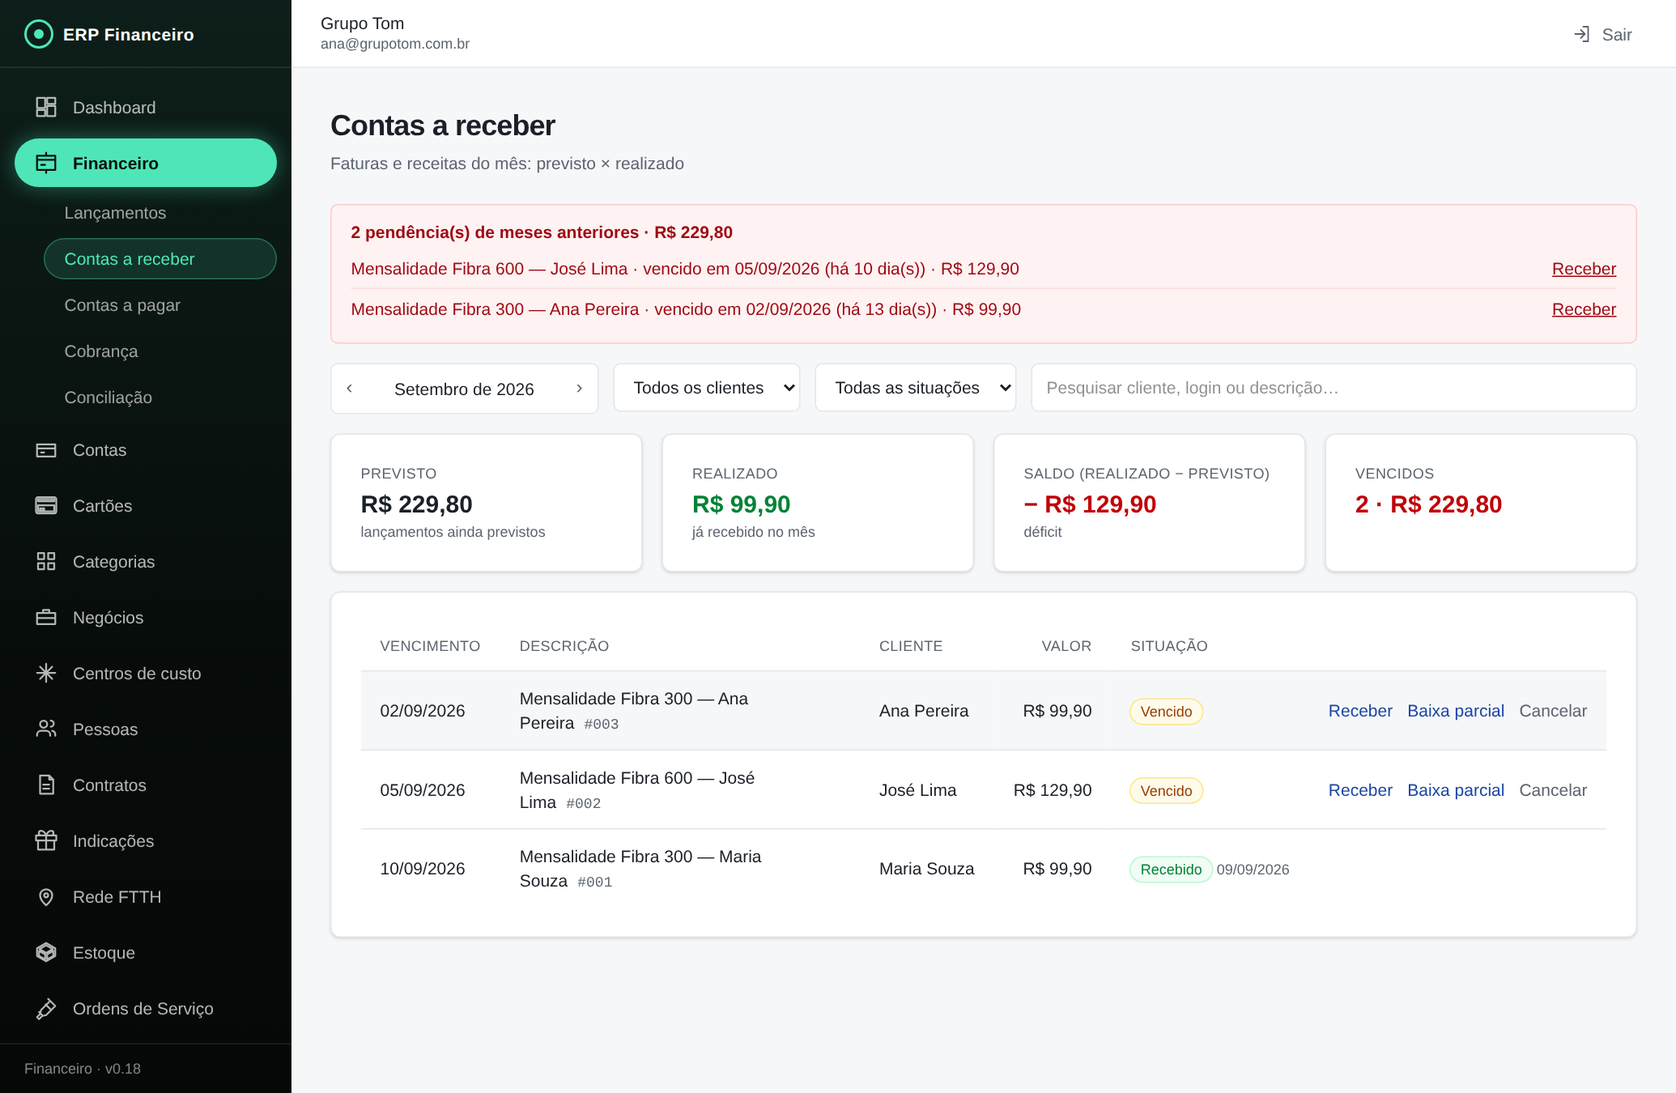
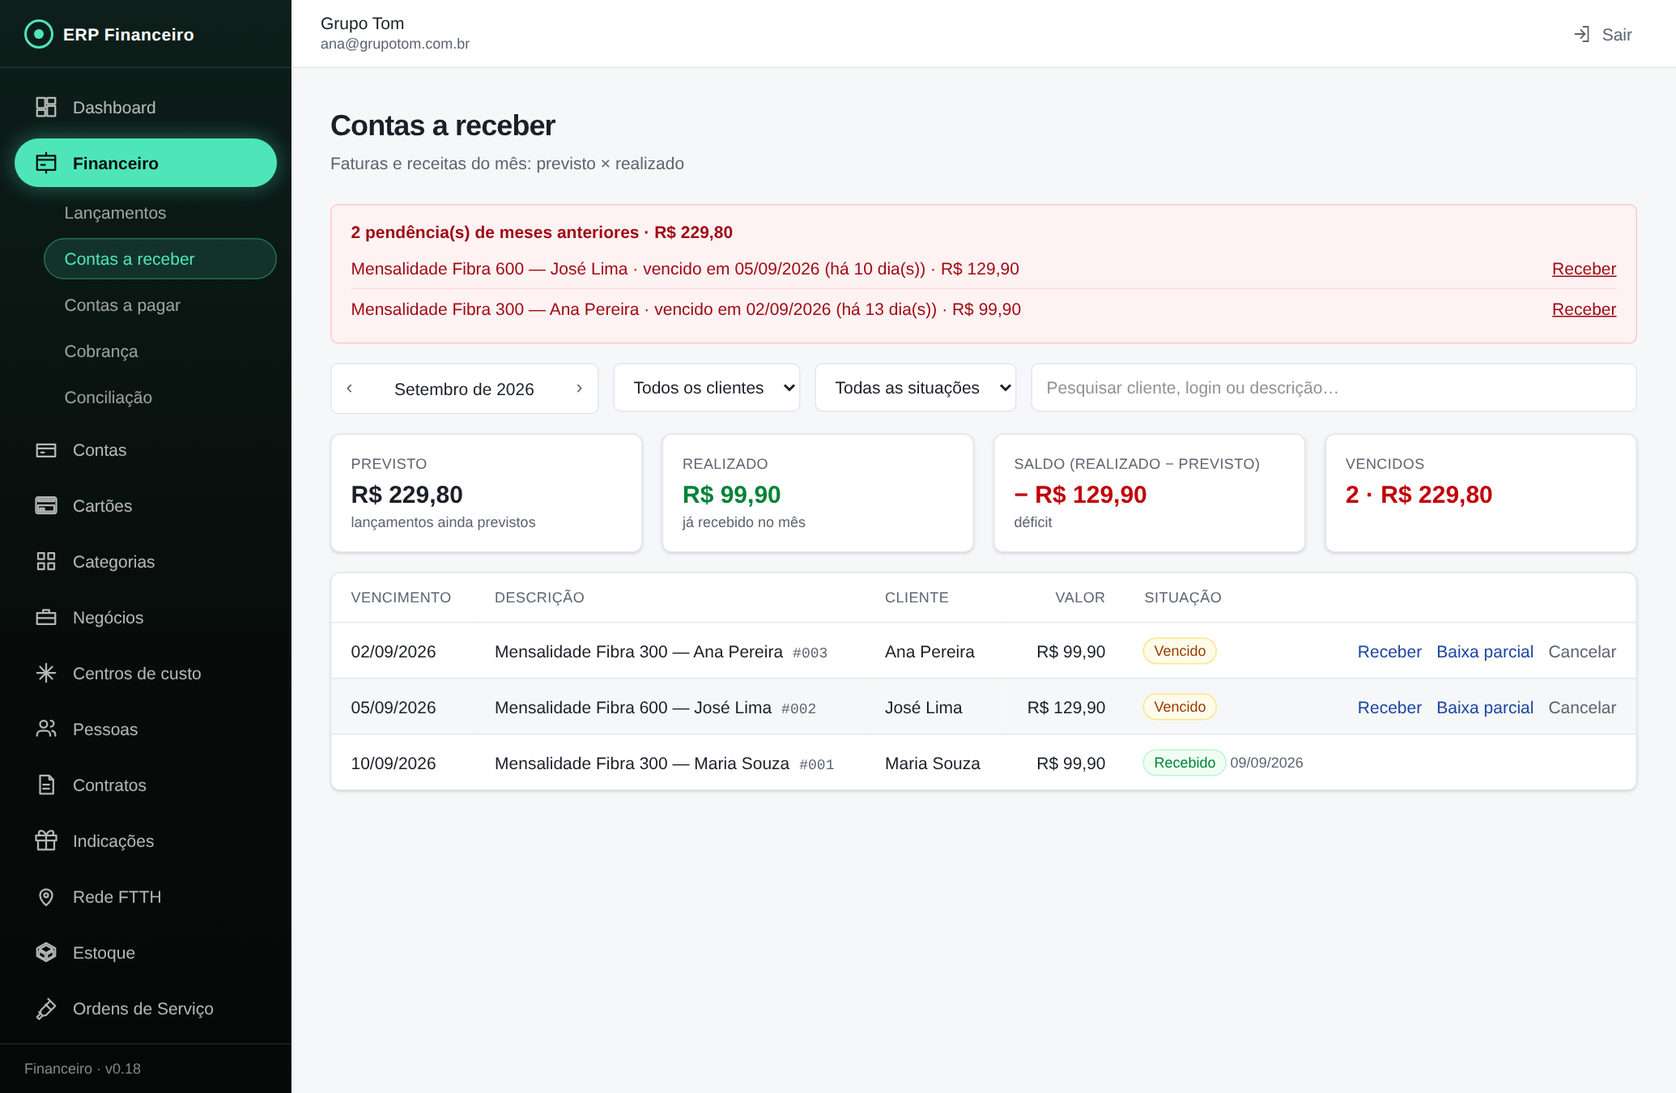
mobile: listas de Lançamentos e Contas a pagar/receber viram cartões no celular
A tabela de 5-6 colunas não cabe em tela de celular: o texto quebrava em
várias linhas, a coluna Tipo ficava cortada e os totais espremiam no topo.
Abaixo de 640px as duas telas passam a renderizar um cartão por linha
(data · tipo, descrição, secundária, valor à direita, situação e ações),
mantendo a tabela completa no desktop. Modelo de linha único nos dois
casos — nada de markup duplicado.

Fatura de cartão no celular: o grupo expande/recolhe igual ao desktop,
com os itens indentados e as ações (Editar, Pagar, Parcial, Cancelar).

Corrige Cartao: o padding passado pelo chamador (p-0, p-4, p-5) nunca
vencia o p-6 da base — o Tailwind resolve pela ordem do CSS gerado, e
todo Cartao do app renderizava com 24px. Em tela de celular isso comia
quase 15% da largura útil das listas. Agora o padding informado vence.

Manual atualizado; prints regerados.

Claude-Session: https://claude.ai/code/session_01LvKVVJXHUTGGnyzXpwt5fU

diff --git a/app/src/modules/lancamentos/pages/LancamentosPage.tsx b/app/src/modules/lancamentos/pages/LancamentosPage.tsx
@@ -164,6 +164,48 @@ export function LancamentosPage() {
     return 'text-brand-700'
   }
 
+  // Modelo único das linhas: a tabela (desktop) e os cartões (mobile) leem daqui — nada duplicado.
+  const linhasView = linhas.map((linha) => {
+    const l = linha.real
+    if (l) {
+      return {
+        chave: linha.chave,
+        data: l.data_competencia,
+        titulo: l.descricao,
+        marca: l.origem === 'faturamento' ? { tom: 'info' as const, texto: 'Automático', titulo: undefined as string | undefined } : null,
+        recorrencia: l.recorrente
+          ? { texto: `🔄 ${rotuloParcela(l)}`, titulo: l.numero_parcelas ? `Parcelamento · ${ROTULO_PERIODICIDADE[l.periodicidade!]}` : `${l.tipo === 'receita' ? 'Receita' : 'Despesa'} fixa · ${ROTULO_PERIODICIDADE[l.periodicidade!]}` }
+          : null,
+        secundaria: descricaoSecundaria(l),
+        tipoRotulo: ROTULO_TIPO[l.tipo],
+        sinal: l.tipo === 'despesa' ? '− ' : l.tipo === 'receita' ? '+ ' : '',
+        valor: l.valor,
+        classeValor: classeValor(l),
+        statusTom: TOM_STATUS[l.status],
+        statusRotulo: ROTULO_STATUS[l.status],
+        aoClicar: () => setEdicao({ modo: 'editar', lancamento: l }),
+        ajuda: undefined as string | undefined,
+      }
+    }
+    const p = linha.proj!
+    return {
+      chave: linha.chave,
+      data: p.data_competencia,
+      titulo: p.descricao,
+      marca: { tom: 'neutro' as const, texto: 'Contrato · projetado', titulo: undefined as string | undefined },
+      recorrencia: null,
+      secundaria: descricaoSecundaria(p),
+      tipoRotulo: ROTULO_TIPO[p.tipo],
+      sinal: p.tipo === 'despesa' ? '− ' : '+ ',
+      valor: p.valor,
+      classeValor: p.tipo === 'receita' ? 'text-green-700' : 'text-red-700',
+      statusTom: 'alerta' as const,
+      statusRotulo: 'Previsto',
+      aoClicar: undefined as (() => void) | undefined,
+      ajuda: 'Projeção do contrato: o lançamento real é gerado automaticamente quando o mês chegar, com descontos e fidelidade aplicados.' as string | undefined,
+    }
+  })
+
   return (
     <>
       <CabecalhoPagina
@@ -218,7 +260,7 @@ export function LancamentosPage() {
           onChange={(e) => setBusca(e.target.value)}
           className="h-10 min-w-48 flex-1 rounded-md border border-line bg-white px-3 text-sm"
         />
-        <span className="ml-auto text-right text-sm text-ink-muted tabular-nums">
+        <span className="w-full text-sm text-ink-muted tabular-nums sm:ml-auto sm:w-auto sm:text-right">
           <span className="block">Realizado: <span className="font-medium text-green-700">{formatarMoeda(totais.receitasReal)}</span> · <span className="font-medium text-red-700">{formatarMoeda(totais.despesasReal)}</span></span>
           <span className="block text-xs">Pendente: <span className="font-medium text-green-700">{formatarMoeda(totais.receitasPend)}</span> · <span className="font-medium text-red-700">{formatarMoeda(totais.despesasPend)}</span></span>
         </span>
@@ -235,55 +277,60 @@ export function LancamentosPage() {
               <p className="text-sm text-ink-muted">Use "Novo lançamento" para registrar uma receita, despesa ou transferência.</p>
             </div>
           ) : (
-            <div className="overflow-x-auto">
-              <table className="w-full text-sm">
-                <thead className="text-left text-xs uppercase tracking-wide text-ink-muted">
-                  <tr className="border-b border-line">
-                    <th className="px-6 py-3 font-medium">Data</th>
-                    <th className="px-6 py-3 font-medium">Descrição</th>
-                    <th className="px-6 py-3 font-medium">Tipo</th>
-                    <th className="px-6 py-3 text-right font-medium">Valor</th>
-                    <th className="px-6 py-3 font-medium">Status</th>
-                  </tr>
-                </thead>
-                <tbody>
-                  {linhas.map((linha) => linha.real ? ((l) => (
-                    <tr key={l.id} onClick={() => setEdicao({ modo: 'editar', lancamento: l })} className="cursor-pointer border-b border-line last:border-0 hover:bg-surface">
-                      <td className="whitespace-nowrap px-6 py-3 tabular-nums text-ink-muted">{formatarData(l.data_competencia)}</td>
-                      <td className="px-6 py-3">
-                        <div className="font-medium">
-                          {l.descricao}
-                          {l.origem === 'faturamento' && <span className="ml-2 align-middle"><Distintivo tom="info">Automático</Distintivo></span>}
-                          {l.recorrente && <span className="ml-2 align-middle" title={l.numero_parcelas ? `Parcelamento · ${ROTULO_PERIODICIDADE[l.periodicidade!]}` : `${l.tipo === 'receita' ? 'Receita' : 'Despesa'} fixa · ${ROTULO_PERIODICIDADE[l.periodicidade!]}`}><Distintivo tom="info">{`🔄 ${rotuloParcela(l)}`}</Distintivo></span>}
-                        </div>
-                        <div className="text-xs text-ink-muted">{descricaoSecundaria(l)}</div>
-                      </td>
-                      <td className="whitespace-nowrap px-6 py-3 text-ink-muted">{ROTULO_TIPO[l.tipo]}</td>
-                      <td className={`whitespace-nowrap px-6 py-3 text-right font-medium tabular-nums ${classeValor(l)}`}>
-                        {l.tipo === 'despesa' ? '− ' : l.tipo === 'receita' ? '+ ' : ''}{formatarMoeda(l.valor)}
-                      </td>
-                      <td className="px-6 py-3"><Distintivo tom={TOM_STATUS[l.status]}>{ROTULO_STATUS[l.status]}</Distintivo></td>
+            <>
+              {/* Mobile: cartão por lançamento (tabela de 5 colunas não cabe em tela de celular) */}
+              <ul className="divide-y divide-line sm:hidden">
+                {linhasView.map((v) => (
+                  <li key={v.chave} title={v.ajuda} onClick={v.aoClicar} className={`px-4 py-3 ${v.aoClicar ? 'cursor-pointer active:bg-surface' : ''}`}>
+                    <div className="flex items-start justify-between gap-3">
+                      <span className="min-w-0 flex-1">
+                        <span className="block text-xs tabular-nums text-ink-muted">{formatarData(v.data)} · {v.tipoRotulo}</span>
+                        <span className="mt-0.5 block font-medium">{v.titulo}</span>
+                      </span>
+                      <span className={`shrink-0 text-right font-medium tabular-nums ${v.classeValor}`}>{v.sinal}{formatarMoeda(v.valor)}</span>
+                    </div>
+                    <p className="mt-1 text-xs text-ink-muted">{v.secundaria}</p>
+                    <p className="mt-1.5 flex flex-wrap items-center gap-1.5">
+                      <Distintivo tom={v.statusTom}>{v.statusRotulo}</Distintivo>
+                      {v.marca && <Distintivo tom={v.marca.tom}>{v.marca.texto}</Distintivo>}
+                      {v.recorrencia && <span title={v.recorrencia.titulo}><Distintivo tom="info">{v.recorrencia.texto}</Distintivo></span>}
+                    </p>
+                  </li>
+                ))}
+              </ul>
+              {/* Desktop: tabela completa */}
+              <div className="hidden overflow-x-auto sm:block">
+                <table className="w-full text-sm">
+                  <thead className="text-left text-xs uppercase tracking-wide text-ink-muted">
+                    <tr className="border-b border-line">
+                      <th className="px-6 py-3 font-medium">Data</th>
+                      <th className="px-6 py-3 font-medium">Descrição</th>
+                      <th className="px-6 py-3 font-medium">Tipo</th>
+                      <th className="px-6 py-3 text-right font-medium">Valor</th>
+                      <th className="px-6 py-3 font-medium">Status</th>
                     </tr>
-                  ))(linha.real) : ((p: ProjecaoContrato) => (
-                    <tr key={`proj-${p.contrato_id}-${p.data_competencia}`} className="border-b border-line last:border-0" title="Projeção do contrato: o lançamento real é gerado automaticamente quando o mês chegar, com descontos e fidelidade aplicados.">
-                      <td className="whitespace-nowrap px-6 py-3 tabular-nums text-ink-muted">{formatarData(p.data_competencia)}</td>
-                      <td className="px-6 py-3">
-                        <div className="font-medium">
-                          {p.descricao}
-                          <span className="ml-2 align-middle"><Distintivo tom="neutro">Contrato · projetado</Distintivo></span>
-                        </div>
-                        <div className="text-xs text-ink-muted">{descricaoSecundaria(p)}</div>
-                      </td>
-                      <td className="whitespace-nowrap px-6 py-3 text-ink-muted">{ROTULO_TIPO[p.tipo]}</td>
-                      <td className={`whitespace-nowrap px-6 py-3 text-right font-medium tabular-nums ${p.tipo === 'receita' ? 'text-green-700' : 'text-red-700'}`}>
-                        {p.tipo === 'despesa' ? '− ' : '+ '}{formatarMoeda(p.valor)}
-                      </td>
-                      <td className="px-6 py-3"><Distintivo tom="alerta">Previsto</Distintivo></td>
-                    </tr>
-                  ))(linha.proj!))}
-                </tbody>
-              </table>
-            </div>
+                  </thead>
+                  <tbody>
+                    {linhasView.map((v) => (
+                      <tr key={v.chave} title={v.ajuda} onClick={v.aoClicar} className={`border-b border-line last:border-0 ${v.aoClicar ? 'cursor-pointer hover:bg-surface' : ''}`}>
+                        <td className="whitespace-nowrap px-6 py-3 tabular-nums text-ink-muted">{formatarData(v.data)}</td>
+                        <td className="px-6 py-3">
+                          <div className="font-medium">
+                            {v.titulo}
+                            {v.marca && <span className="ml-2 align-middle"><Distintivo tom={v.marca.tom}>{v.marca.texto}</Distintivo></span>}
+                            {v.recorrencia && <span className="ml-2 align-middle" title={v.recorrencia.titulo}><Distintivo tom="info">{v.recorrencia.texto}</Distintivo></span>}
+                          </div>
+                          <div className="text-xs text-ink-muted">{v.secundaria}</div>
+                        </td>
+                        <td className="whitespace-nowrap px-6 py-3 text-ink-muted">{v.tipoRotulo}</td>
+                        <td className={`whitespace-nowrap px-6 py-3 text-right font-medium tabular-nums ${v.classeValor}`}>{v.sinal}{formatarMoeda(v.valor)}</td>
+                        <td className="px-6 py-3"><Distintivo tom={v.statusTom}>{v.statusRotulo}</Distintivo></td>
+                      </tr>
+                    ))}
+                  </tbody>
+                </table>
+              </div>
+            </>
           )}
         </Cartao>
       )}

diff --git a/app/src/modules/financeiro/pages/ContasPage.tsx b/app/src/modules/financeiro/pages/ContasPage.tsx
@@ -205,7 +205,86 @@ function ContasPage({ tipo }: { tipo: 'receita' | 'despesa' }) {
       {lancamentos.isSuccess && (
         <Cartao className="p-0">
           {lista.length === 0 ? <p className="px-6 py-14 text-center text-sm text-ink-muted">Nada {receber ? 'a receber' : 'a pagar'} com esses filtros neste mês.</p> : (
-            <div className="overflow-x-auto"><table className="w-full text-sm">
+            <>
+            {/* Mobile: cartão por linha (a tabela de 6 colunas não cabe em tela de celular) */}
+            <ul className="divide-y divide-line sm:hidden">
+              {linhasExibidas.map((x) => {
+                if ('fatura' in x) {
+                  const chave = `${x.contaId}|${x.vencimento}`
+                  const aberta = faturasAbertas.has(chave)
+                  const totalFatura = x.itens.reduce((s, i) => s + i.valor, 0)
+                  const todasPagas = x.itens.every((i) => i.status === 'efetivado')
+                  return (
+                    <li key={chave} className="bg-canvas/60 px-4 py-3">
+                      <button type="button" className="flex w-full items-start justify-between gap-3 text-left"
+                        onClick={() => setFaturasAbertas((s) => { const n = new Set(s); if (n.has(chave)) n.delete(chave); else n.add(chave); return n })}>
+                        <span className="min-w-0 flex-1">
+                          <span className="block text-xs tabular-nums text-ink-muted">{formatarData(x.vencimento)}</span>
+                          <span className="mt-0.5 block font-medium">{aberta ? '▾' : '▸'} Fatura {contaPorId.get(x.contaId)?.nome ?? 'Cartão'}</span>
+                          <span className="text-xs text-ink-muted">{x.itens.length} item(ns)</span>
+                        </span>
+                        <span className="shrink-0 text-right font-medium tabular-nums">{formatarMoeda(totalFatura)}</span>
+                      </button>
+                      <p className="mt-1.5 flex flex-wrap items-center gap-2">
+                        <Distintivo tom={todasPagas ? 'ok' : 'info'}>{todasPagas ? 'Pago' : 'Em aberto'}</Distintivo>
+                        <button type="button" className="text-xs text-brand-700 hover:underline"
+                          onClick={() => { setAjusteDescricao(''); setAjusteValor(''); setAjusteCategoriaId(''); criarAjuste.reset(); setFaturaAjuste({ contaId: x.contaId, vencimento: x.vencimento, negocioId: x.itens[0]?.negocio_id ?? null }) }}>+ Ajuste</button>
+                      </p>
+                      {aberta && (
+                        <ul className="mt-2 space-y-2 border-l-2 border-line pl-3">
+                          {x.itens.map((l) => {
+                            const st = situacaoDe(l)
+                            return (
+                              <li key={l.id} className="text-xs">
+                                <span className="flex items-start justify-between gap-2">
+                                  <span className="min-w-0 flex-1 font-medium">{l.descricao}</span>
+                                  <span className="shrink-0 tabular-nums">{formatarMoeda(l.valor)}</span>
+                                </span>
+                                <span className="mt-0.5 block text-ink-muted">{formatarData(l.data_competencia)}{l.categoria_id ? ` · ${nomeCategoria.get(l.categoria_id) ?? ''}` : ''}{l.recorrente ? ` · 🔄 ${rotuloParcela(l)}` : ''}</span>
+                                <span className="mt-1 flex flex-wrap items-center gap-2">
+                                  <Distintivo tom={TOM[st]}>{st === 'pago' ? 'Pago' : ROTULO[st]}</Distintivo>
+                                  <Link to={`/financeiro/lancamentos?editar=${l.id}`} className="text-brand-700 hover:underline">Editar</Link>
+                                  {l.status === 'previsto' && <>
+                                    <button type="button" className="text-brand-700 hover:underline" onClick={() => setAcao({ tipo: 'baixa', l })}>Pagar</button>
+                                    <button type="button" className="text-brand-700 hover:underline" onClick={() => setAcao({ tipo: 'parcial', l })}>Parcial</button>
+                                    <button type="button" className="text-ink-muted hover:underline" onClick={() => setAcao({ tipo: 'cancelar', l })}>Cancelar</button>
+                                  </>}
+                                </span>
+                              </li>
+                            )
+                          })}
+                        </ul>
+                      )}
+                    </li>
+                  )
+                }
+                const l = x; const st = situacaoDe(l); const c = l.contrato_id ? contratoPorId.get(l.contrato_id) : undefined
+                return (
+                  <li key={l.id} className="px-4 py-3">
+                    <div className="flex items-start justify-between gap-3">
+                      <span className="min-w-0 flex-1">
+                        <span className="block text-xs tabular-nums text-ink-muted">{formatarData(l.data_vencimento)}{l.pessoa_id ? ` · ${nomePessoa.get(l.pessoa_id) ?? '—'}` : ''}</span>
+                        <span className="mt-0.5 block font-medium">{l.descricao}</span>
+                        {(c || l.recorrente) && <span className="text-xs text-ink-muted">{c ? codigoContrato(c) : ''}{c && l.recorrente ? ' · ' : ''}{l.recorrente ? `🔄 ${rotuloParcela(l)}` : ''}</span>}
+                        {l.observacao && <span className="block text-xs text-ink-muted">{l.observacao}</span>}
+                      </span>
+                      <span className="shrink-0 text-right font-medium tabular-nums">{ehCortesia(l) ? <span className="text-ink-muted line-through">{formatarMoeda(l.valor)}</span> : formatarMoeda(l.valor)}</span>
+                    </div>
+                    <p className="mt-1.5 flex flex-wrap items-center gap-2 text-xs">
+                      {ehCortesia(l) ? <Distintivo tom="info">Cortesia</Distintivo> : <Distintivo tom={TOM[st]}>{st === 'pago' ? (receber ? 'Recebido' : 'Pago') : ROTULO[st]}</Distintivo>}
+                      {l.data_efetivacao && <span className="text-ink-muted">{formatarData(l.data_efetivacao)}</span>}
+                      {l.status === 'previsto' && <>
+                        <button type="button" className="text-brand-700 hover:underline" onClick={() => setAcao({ tipo: 'baixa', l })}>{receber ? 'Receber' : 'Pagar'}</button>
+                        <button type="button" className="text-brand-700 hover:underline" onClick={() => setAcao({ tipo: 'parcial', l })}>Baixa parcial</button>
+                        <button type="button" className="text-ink-muted hover:underline" onClick={() => setAcao({ tipo: 'cancelar', l })}>Cancelar</button>
+                      </>}
+                    </p>
+                  </li>
+                )
+              })}
+            </ul>
+            {/* Desktop: tabela completa */}
+            <div className="hidden overflow-x-auto sm:block"><table className="w-full text-sm">
               <thead className="text-left text-xs uppercase tracking-wide text-ink-muted"><tr className="border-b border-line"><th className="whitespace-nowrap px-4 py-3 font-medium">Vencimento</th><th className="px-4 py-3 font-medium">Descrição</th><th className="whitespace-nowrap px-4 py-3 font-medium">{receber ? 'Cliente' : 'Fornecedor'}</th><th className="whitespace-nowrap px-4 py-3 text-right font-medium">Valor</th><th className="whitespace-nowrap px-4 py-3 font-medium">Situação</th><th className="px-4 py-3"></th></tr></thead>
               <tbody>{linhasExibidas.map((x) => {
                 if ('fatura' in x) {
@@ -234,6 +313,7 @@ function ContasPage({ tipo }: { tipo: 'receita' | 'despesa' }) {
                   <td className="whitespace-nowrap px-4 py-3 text-right">{l.status === 'previsto' && <><button type="button" className="text-brand-700 hover:underline" onClick={() => setAcao({ tipo: 'baixa', l })}>{receber ? 'Receber' : 'Pagar'}</button><button type="button" className="ml-3 text-brand-700 hover:underline" onClick={() => setAcao({ tipo: 'parcial', l })}>Baixa parcial</button><button type="button" className="ml-3 text-ink-muted hover:underline" onClick={() => setAcao({ tipo: 'cancelar', l })}>Cancelar</button></>}</td>
                 </tr>) })}</tbody>
             </table></div>
+            </>
           )}
         </Cartao>
       )}

diff --git a/app/src/core/ui/Cartao.tsx b/app/src/core/ui/Cartao.tsx
@@ -1,5 +1,10 @@
 import type { ReactNode } from 'react'
 
+/** Padding informado pelo chamador (p-0, p-4, px-3, py-6…) vence o padrão p-6.
+ *  Sem isso o Tailwind resolve pela ordem do CSS gerado e o p-6 da base ganhava
+ *  sempre — `Cartao className="p-0"` (tabelas e listas) vinha com 24px de sobra,
+ *  o que no celular come quase 15% da largura útil. */
 export function Cartao({ children, className = '' }: { children: ReactNode; className?: string }) {
-  return <div className={`rounded-lg border border-line bg-white p-6 shadow-sm ${className}`}>{children}</div>
+  const temPadding = /(^|\s)(p|px|py|ps|pe|pt|pr|pb|pl)-/.test(className)
+  return <div className={`rounded-lg border border-line bg-white ${temPadding ? '' : 'p-6'} shadow-sm ${className}`}>{children}</div>
 }

diff --git a/app/src/core/ui/ModuloEmBreve.tsx b/app/src/core/ui/ModuloEmBreve.tsx
@@ -6,7 +6,7 @@ export function ModuloEmBreve({ titulo, descricao, etapa }: { titulo: string; de
   return (
     <>
       <CabecalhoPagina titulo={titulo} descricao={descricao} />
-      <Cartao className="flex flex-col items-center gap-2 py-16 text-center">
+      <Cartao className="flex flex-col items-center gap-2 px-6 py-16 text-center">
         <p className="text-sm font-medium">Módulo ainda não disponível</p>
         <p className="text-sm text-ink-muted">Previsto para a {etapa}.</p>
       </Cartao>

diff --git a/docs/manual/README.md b/docs/manual/README.md
@@ -2,6 +2,8 @@
 
 Guia completo para um novo administrador operar o sistema, tela a tela. As imagens são de um ambiente de demonstração (os dados são fictícios). Endereço do sistema: o mesmo usado hoje no navegador (deploy do Cloudflare); funciona no computador e no celular.
 
+> **No celular** as listas grandes (Lançamentos, Contas a pagar e a receber) viram **cartões** — um por linha, com data, descrição, valor e situação — em vez da tabela larga que exigiria rolar para o lado. As mesmas ações continuam ali (pagar, baixa parcial, cancelar, editar). As imagens deste manual são da versão de computador.
+
 > Existem **três portas de entrada** diferentes:
 > - **Administrador**: `/entrar` (e-mail e senha) — vê tudo.
 > - **Técnico**: `/tecnico/entrar` (usuário e senha, sem e-mail) — vê só os chamados e a bolsa dele.
